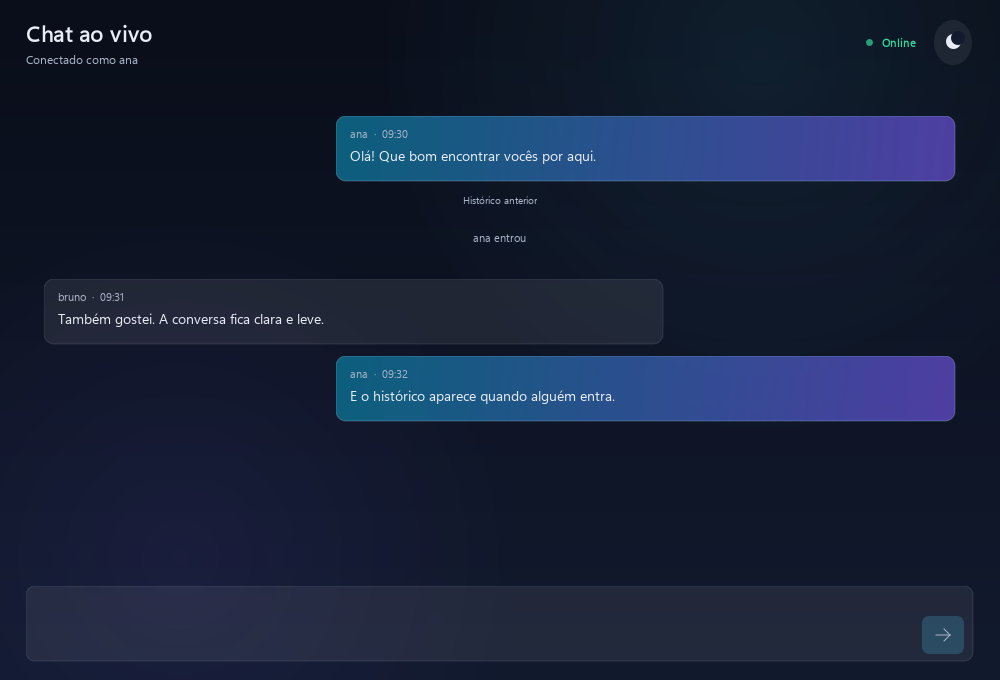
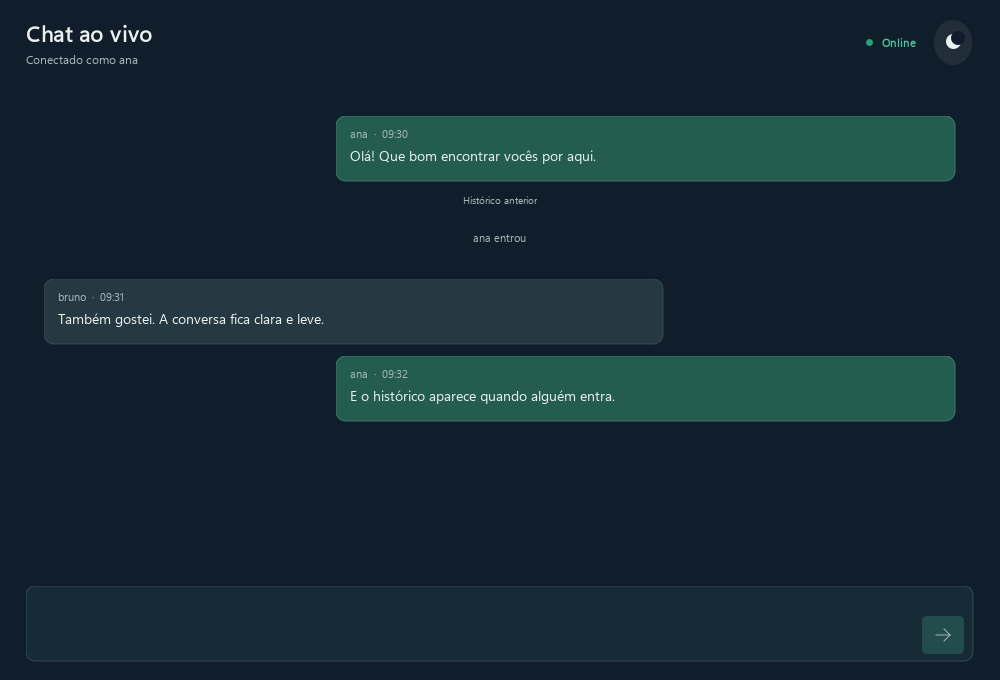
Refina identidade visual da interface

Changed region(s): [[0.31, 0.1544, 0.961, 0.2779], [0.31, 0.525, 0.961, 0.6176]]

diff --git a/src/main/java/br/unicesumar/chat/client/gui/TelaConexao.java b/src/main/java/br/unicesumar/chat/client/gui/TelaConexao.java
@@ -173,8 +173,8 @@ public final class TelaConexao extends JPanel {
         campo.setFont(Tema.fonte(14, Font.PLAIN));
         campo.setForeground(Tema.TEXTO);
         campo.setCaretColor(Tema.CIANO);
-        campo.setOpaque(false);
-        campo.setBackground(new Color(255, 255, 255, 20));
+        campo.setOpaque(true);
+        campo.setBackground(new Color(0x263B46));
         campo.setBorder(BorderFactory.createCompoundBorder(new BordaCampo(),
                 BorderFactory.createEmptyBorder(8, 10, 8, 10)));
         campo.getAccessibleContext().setAccessibleName(nomeAcessivel);
@@ -184,8 +184,8 @@ public final class TelaConexao extends JPanel {
         if (componente instanceof JLabel etiqueta && componente != erro) etiqueta.setForeground(texto);
         if (componente instanceof JTextField campo) {
             campo.setForeground(texto);
-            campo.setCaretColor(claro ? Tema.VIOLETA : Tema.CIANO);
-            campo.setBackground(claro ? new Color(255, 255, 255, 220) : new Color(255, 255, 255, 20));
+            campo.setCaretColor(claro ? Tema.CORAL : Tema.CIANO);
+            campo.setBackground(claro ? new Color(0xFFFFFF) : new Color(0x263B46));
         }
         if (componente instanceof JPanel painel) {
             for (java.awt.Component filho : painel.getComponents()) atualizarTexto(filho, texto, claro);
@@ -199,32 +199,30 @@ public final class TelaConexao extends JPanel {
         @Override public void paintBorder(java.awt.Component c, java.awt.Graphics g, int x, int y, int w, int h) {
             Graphics2D grafico = (Graphics2D) g.create();
             Tema.preparar(grafico);
-            grafico.setColor(c.getBackground());
-            grafico.fillRoundRect(x, y, w - 1, h - 1, 14, 14);
-            grafico.setColor(c.isFocusOwner() ? new Color(76, 201, 240, 180) : new Color(255, 255, 255, 35));
+            grafico.setColor(c.isFocusOwner() ? Tema.CIANO : Tema.BORDA);
             grafico.drawRoundRect(x, y, w - 1, h - 1, 14, 14);
             grafico.dispose();
         }
         @Override public Insets getBorderInsets(java.awt.Component c) { return new Insets(6, 8, 6, 8); }
     }
 
-    private static final class BordaVidro extends javax.swing.border.AbstractBorder {
+    private final class BordaVidro extends javax.swing.border.AbstractBorder {
         @Override public void paintBorder(java.awt.Component c, java.awt.Graphics g, int x, int y, int w, int h) {
             Graphics2D grafico = (Graphics2D) g.create();
             Tema.preparar(grafico);
-            grafico.setColor(new Color(255, 255, 255, 25));
+            grafico.setColor(temaClaro ? new Color(0xD8E2DC) : Tema.BORDA);
             grafico.drawRoundRect(x, y, w - 1, h - 1, 24, 24);
             grafico.dispose();
         }
         @Override public Insets getBorderInsets(java.awt.Component c) { return new Insets(1, 1, 1, 1); }
     }
 
-    private static final class PainelVidro extends JPanel {
+    private final class PainelVidro extends JPanel {
         private PainelVidro() { setOpaque(false); }
         @Override protected void paintComponent(java.awt.Graphics contexto) {
             Graphics2D grafico = (Graphics2D) contexto.create();
             Tema.preparar(grafico);
-            grafico.setColor(new Color(255, 255, 255, 14));
+            grafico.setColor(temaClaro ? Color.WHITE : Tema.SUPERFICIE);
             grafico.fillRoundRect(0, 0, getWidth() - 1, getHeight() - 1, 24, 24);
             grafico.dispose();
         }

diff --git a/src/main/java/br/unicesumar/chat/client/gui/BolhaMensagem.java b/src/main/java/br/unicesumar/chat/client/gui/BolhaMensagem.java
@@ -49,7 +49,7 @@ public final class BolhaMensagem extends JPanel {
         texto.setOpaque(false);
         texto.setMargin(new Insets(0, 0, 0, 0));
         texto.setSelectedTextColor(Tema.TEXTO);
-        texto.setSelectionColor(new Color(76, 201, 240, 90));
+        texto.setSelectionColor(new Color(79, 195, 161, 90));
         texto.getAccessibleContext().setAccessibleName("Mensagem de "
                 + (linha.remetente().isEmpty() ? linha.tipo().name().toLowerCase() : linha.remetente()));
         add(texto, BorderLayout.CENTER);
@@ -65,7 +65,7 @@ public final class BolhaMensagem extends JPanel {
     /** Aplica as cores de texto adequadas ao tema atual. */
     public void setTemaClaro(boolean ativo) {
         claro = ativo;
-        editor.setForeground(ativo && !propria ? new Color(0x101828) : Tema.TEXTO);
+        editor.setForeground(ativo ? new Color(0x172B2A) : Tema.TEXTO);
         if (cabecalho != null) cabecalho.setForeground(ativo ? new Color(0x667085) : Tema.SECUNDARIO);
         repaint();
     }
@@ -82,7 +82,7 @@ public final class BolhaMensagem extends JPanel {
         revalidate();
     }
 
-    /** Pinta vidro ou gradiente próprio com entrada curta de transparência e deslocamento. */
+    /** Pinta superfícies distintas para mensagens próprias e recebidas. */
     @Override
     protected void paintComponent(Graphics contexto) {
         Graphics2D grafico = (Graphics2D) contexto.create();
@@ -91,14 +91,13 @@ public final class BolhaMensagem extends JPanel {
         grafico.setComposite(java.awt.AlphaComposite.SrcOver.derive((float) entrada));
         RoundRectangle2D forma = new RoundRectangle2D.Double(0, 0, getWidth() - 1, getHeight() - 1, 20, 20);
         if (propria) {
-            grafico.setPaint(new java.awt.GradientPaint(0, 0, new Color(12, 101, 131, 238),
-                    getWidth(), getHeight(), new Color(83, 65, 171, 238)));
+            grafico.setColor(claro ? new Color(0xCDE8DC) : new Color(0x245C52));
         } else {
-            grafico.setColor(claro ? new Color(16, 24, 40, 13) : new Color(255, 255, 255, 20));
+            grafico.setColor(claro ? new Color(0xFFFFFF) : new Color(0x263943));
         }
         grafico.fill(forma);
-        grafico.setColor(propria ? new Color(170, 220, 255, 70)
-                : (claro ? new Color(16, 24, 40, 24) : Tema.BORDA_VIDRO));
+        grafico.setColor(propria ? (claro ? new Color(0x8BBDAA) : new Color(0x397B6D))
+                : (claro ? new Color(0xD8E2DC) : Tema.BORDA));
         grafico.draw(forma);
         grafico.dispose();
         super.paintComponent(contexto);

diff --git a/src/main/java/br/unicesumar/chat/client/gui/CampoMensagem.java b/src/main/java/br/unicesumar/chat/client/gui/CampoMensagem.java
@@ -23,6 +23,7 @@ public final class CampoMensagem extends JPanel {
     private final JLabel contador = new JLabel(" ");
     private final BotaoEnvio enviar;
     private Consumer<String> aoEnviar = ignorar -> { };
+    private boolean temaClaro;
 
     /** Cria o campo multilinha e instala os atalhos de teclado solicitados. */
     public CampoMensagem() {
@@ -92,8 +93,9 @@ public final class CampoMensagem extends JPanel {
 
     /** Aplica cores de texto adequadas ao tema claro ou escuro. */
     public void setTemaClaro(boolean claro) {
+        temaClaro = claro;
         texto.setForeground(claro ? new Color(0x101828) : Tema.TEXTO);
-        texto.setCaretColor(claro ? Tema.VIOLETA : Tema.CIANO);
+        texto.setCaretColor(claro ? Tema.CORAL : Tema.CIANO);
         contador.setForeground(claro ? new Color(0x667085) : Tema.SECUNDARIO);
         repaint();
     }
@@ -103,14 +105,14 @@ public final class CampoMensagem extends JPanel {
         texto.requestFocusInWindow();
     }
 
-    /** Pinta a superfície de vidro com borda de foco suave. */
+    /** Pinta a área de escrita com contraste e foco visível. */
     @Override
     protected void paintComponent(Graphics contexto) {
         Graphics2D grafico = (Graphics2D) contexto.create();
         Tema.preparar(grafico);
-        grafico.setColor(new Color(255, 255, 255, 18));
+        grafico.setColor(temaClaro ? Color.WHITE : new Color(0x172B36));
         grafico.fillRoundRect(0, 0, getWidth() - 1, getHeight() - 1, 18, 18);
-        grafico.setColor(texto.isFocusOwner() ? new Color(76, 201, 240, 110) : Tema.BORDA_VIDRO);
+        grafico.setColor(texto.isFocusOwner() ? Tema.CIANO : Tema.BORDA);
         grafico.drawRoundRect(0, 0, getWidth() - 1, getHeight() - 1, 18, 18);
         grafico.dispose();
         super.paintComponent(contexto);
@@ -169,8 +171,8 @@ public final class CampoMensagem extends JPanel {
             grafico.scale(escala, escala);
             int alpha = isEnabled() ? 215 : 55;
             alpha = (int) Math.min(255, alpha + hover * 30);
-            grafico.setColor(new Color(76, 201, 240, alpha));
-            grafico.fillRoundRect(0, 0, getWidth(), getHeight(), 14, 14);
+            grafico.setColor(new Color(Tema.CIANO.getRed(), Tema.CIANO.getGreen(), Tema.CIANO.getBlue(), alpha));
+            grafico.fillRoundRect(0, 0, getWidth(), getHeight(), 9, 9);
             grafico.setColor(isEnabled() ? Tema.TEXTO : Tema.SECUNDARIO);
             int centroX = getWidth() / 2;
             int centroY = getHeight() / 2;

diff --git a/src/main/java/br/unicesumar/chat/client/gui/ListaMensagens.java b/src/main/java/br/unicesumar/chat/client/gui/ListaMensagens.java
@@ -51,7 +51,7 @@ public final class ListaMensagens extends JPanel {
         superior.setOpaque(false);
         novasMensagens.setFont(Tema.fonte(11, Font.BOLD));
         novasMensagens.setForeground(Tema.TEXTO);
-        novasMensagens.setBackground(new Color(30, 42, 65, 230));
+        novasMensagens.setBackground(new Color(0x2D454F));
         novasMensagens.setBorder(BorderFactory.createEmptyBorder(7, 14, 7, 14));
         novasMensagens.setVisible(false);
         novasMensagens.setToolTipText("Rolar para as mensagens mais recentes");
@@ -135,7 +135,7 @@ public final class ListaMensagens extends JPanel {
             }
         }
         novasMensagens.setForeground(claro ? new Color(0x101828) : Tema.TEXTO);
-        novasMensagens.setBackground(claro ? new Color(255, 255, 255, 225) : new Color(30, 42, 65, 230));
+        novasMensagens.setBackground(claro ? new Color(0xE7EFEA) : new Color(0x2D454F));
         repaint();
     }
 
@@ -207,13 +207,17 @@ public final class ListaMensagens extends JPanel {
         @Override protected void paintComponent(java.awt.Graphics contexto) {
             java.awt.Graphics2D grafico = (java.awt.Graphics2D) contexto.create();
             Tema.preparar(grafico);
-            int d = Math.min(getWidth(), getHeight());
-            grafico.setPaint(new java.awt.RadialGradientPaint(getWidth() / 2f, getHeight() / 2f, d / 2f,
-                    new float[]{0f, 0.5f, 1f}, new Color[]{new Color(76, 201, 240, 90),
-                    new Color(123, 97, 255, 35), new Color(123, 97, 255, 0)}));
-            grafico.fillOval(0, 0, d, d);
-            grafico.setColor(new Color(76, 201, 240, 120));
-            grafico.fillOval(d / 3, d / 3, d / 3, d / 3);
+            int centroX = getWidth() / 2;
+            int centroY = getHeight() / 2;
+            grafico.setColor(Tema.SUPERFICIE);
+            grafico.fillRoundRect(centroX - 31, centroY - 20, 62, 40, 14, 14);
+            grafico.setColor(Tema.CIANO);
+            grafico.drawRoundRect(centroX - 31, centroY - 20, 62, 40, 14, 14);
+            grafico.drawLine(centroX - 15, centroY + 20, centroX - 21, centroY + 27);
+            grafico.drawLine(centroX - 21, centroY + 27, centroX - 4, centroY + 20);
+            for (int ponto = -10; ponto <= 10; ponto += 10) {
+                grafico.fillOval(centroX + ponto - 2, centroY - 2, 4, 4);
+            }
             grafico.dispose();
         }
     }

diff --git a/src/main/java/br/unicesumar/chat/client/gui/BotaoArredondado.java b/src/main/java/br/unicesumar/chat/client/gui/BotaoArredondado.java
@@ -25,7 +25,7 @@ public final class BotaoArredondado extends JButton {
         super(texto);
         this.animacao = animacao;
         setFont(Tema.fonte(14, java.awt.Font.BOLD));
-        setForeground(Tema.TEXTO);
+        setForeground(Tema.FUNDO_INICIO);
         setBorderPainted(false);
         setContentAreaFilled(false);
         setFocusPainted(false);
@@ -72,7 +72,7 @@ public final class BotaoArredondado extends JButton {
         });
     }
 
-    /** Pinta gradiente do acento, contorno de foco e escala de pressão. */
+    /** Pinta o botão na cor de ação, com contorno de foco e escala de pressão. */
     @Override
     protected void paintComponent(Graphics contexto) {
         Graphics2D grafico = (Graphics2D) contexto.create();
@@ -80,19 +80,18 @@ public final class BotaoArredondado extends JButton {
         double escala = 1.0 - pressionado * 0.03;
         grafico.translate(getWidth() * (1.0 - escala) / 2.0, getHeight() * (1.0 - escala) / 2.0);
         grafico.scale(escala, escala);
-        int alpha = isEnabled() ? (int) (205 + hover * 50) : 75;
-        grafico.setPaint(new java.awt.GradientPaint(0, 0, comAlpha(new Color(12, 101, 131), alpha),
-                getWidth(), getHeight(), comAlpha(new Color(83, 65, 171), alpha)));
-        grafico.fillRoundRect(1, 1, getWidth() - 2, getHeight() - 2, 18, 18);
+        int alpha = isEnabled() ? (int) (235 + hover * 20) : 85;
+        grafico.setColor(comAlpha(Tema.CIANO, alpha));
+        grafico.fillRoundRect(1, 1, getWidth() - 2, getHeight() - 2, 10, 10);
         if (carregando) {
-            grafico.setColor(new Color(255, 255, 255, 220));
+            grafico.setColor(Tema.FUNDO_INICIO);
             grafico.setStroke(new java.awt.BasicStroke(2f));
             grafico.drawArc(getWidth() - 28, (getHeight() - 14) / 2, 14, 14,
                     (int) anguloCarregamento, 250);
         }
         if (isFocusOwner()) {
-            grafico.setColor(new Color(232, 236, 245, 180));
-            grafico.drawRoundRect(2, 2, getWidth() - 5, getHeight() - 5, 16, 16);
+            grafico.setColor(Tema.CORAL);
+            grafico.drawRoundRect(2, 2, getWidth() - 5, getHeight() - 5, 9, 9);
         }
         grafico.dispose();
         super.paintComponent(contexto);

diff --git a/src/main/java/br/unicesumar/chat/client/gui/FundoFuturista.java b/src/main/java/br/unicesumar/chat/client/gui/FundoFuturista.java
@@ -3,10 +3,8 @@ package br.unicesumar.chat.client.gui;
 import javax.swing.JPanel;
 import java.awt.Graphics;
 import java.awt.Graphics2D;
-import java.awt.RadialGradientPaint;
-import java.awt.geom.Point2D;
 
-/** Pinta um fundo escuro vertical com luzes ciano e violeta discretas. */
+/** Pinta o fundo uniforme compartilhado pelas telas do chat. */
 public final class FundoFuturista extends JPanel {
     private boolean claro;
     /** Cria a superfície de fundo sem depender de janela. */
@@ -21,29 +19,17 @@ public final class FundoFuturista extends JPanel {
         repaint();
     }
 
-    /** Desenha gradiente vertical e halos radiais suaves. */
+    /** Pinta uma superfície uniforme para manter o contraste dos textos. */
     @Override
     protected void paintComponent(Graphics contexto) {
         Graphics2D grafico = (Graphics2D) contexto.create();
         Tema.preparar(grafico);
         if (claro) {
-            grafico.setPaint(new java.awt.GradientPaint(0, 0, new java.awt.Color(0xF5F7FB),
-                    0, getHeight(), new java.awt.Color(0xE8EDF7)));
-            grafico.fillRect(0, 0, getWidth(), getHeight());
-            grafico.dispose();
-            return;
+            grafico.setColor(new java.awt.Color(0xEDF1EB));
+        } else {
+            grafico.setColor(Tema.FUNDO_INICIO);
         }
-        grafico.setPaint(new java.awt.GradientPaint(0, 0, Tema.FUNDO_INICIO, 0, getHeight(), Tema.FUNDO_FIM));
         grafico.fillRect(0, 0, getWidth(), getHeight());
-        pintarHalo(grafico, getWidth() * 0.76f, getHeight() * 0.08f, Math.max(150, getWidth() * 0.38f), Tema.CIANO);
-        pintarHalo(grafico, getWidth() * 0.18f, getHeight() * 0.82f, Math.max(150, getWidth() * 0.34f), Tema.VIOLETA);
         grafico.dispose();
-    }
-
-    private void pintarHalo(Graphics2D grafico, float x, float y, float raio, java.awt.Color cor) {
-        grafico.setPaint(new RadialGradientPaint(new Point2D.Float(x, y), raio,
-                new float[]{0f, 1f}, new java.awt.Color[]{new java.awt.Color(cor.getRed(), cor.getGreen(), cor.getBlue(), 22),
-                new java.awt.Color(cor.getRed(), cor.getGreen(), cor.getBlue(), 0)}));
-        grafico.fillRect(0, 0, getWidth(), getHeight());
     }
 }

diff --git a/src/main/java/br/unicesumar/chat/client/gui/Tema.java b/src/main/java/br/unicesumar/chat/client/gui/Tema.java
@@ -10,16 +10,15 @@ import java.util.Set;
 
 /** Reúne paleta, fonte e configuração de desenho comuns às telas Swing. */
 public final class Tema {
-    public static final Color FUNDO_INICIO = new Color(0x0A0E1A);
-    public static final Color FUNDO_FIM = new Color(0x121A2E);
-    public static final Color VIDRO = new Color(255, 255, 255, 18);
-    public static final Color BORDA_VIDRO = new Color(255, 255, 255, 27);
-    public static final Color TEXTO = new Color(0xE8ECF5);
-    public static final Color SECUNDARIO = new Color(0xAAB4C9);
-    public static final Color CIANO = new Color(0x4CC9F0);
-    public static final Color VIOLETA = new Color(0x7B61FF);
-    public static final Color SUCESSO = new Color(0x34D399);
-    public static final Color ERRO = new Color(0xFF6B81);
+    public static final Color FUNDO_INICIO = new Color(0x101E2B);
+    public static final Color SUPERFICIE = new Color(0x1D3441);
+    public static final Color BORDA = new Color(0x344955);
+    public static final Color TEXTO = new Color(0xEAF1EE);
+    public static final Color SECUNDARIO = new Color(0xA5B7B5);
+    public static final Color CIANO = new Color(0x4FC3A1);
+    public static final Color CORAL = new Color(0xE98B68);
+    public static final Color SUCESSO = new Color(0x4FC3A1);
+    public static final Color ERRO = new Color(0xE47773);
     private static final List<String> FONTES = List.of(
             "SF Pro Display", "SF Pro Text", "Segoe UI Variable", "Segoe UI", "Helvetica Neue", "Inter"
     );

diff --git a/src/test/java/br/unicesumar/chat/client/gui/TemaVisualTest.java b/src/test/java/br/unicesumar/chat/client/gui/TemaVisualTest.java
@@ -1,0 +1,21 @@
+package br.unicesumar.chat.client.gui;
+
+import org.junit.jupiter.api.Test;
+
+import static org.junit.jupiter.api.Assertions.assertEquals;
+
+class TemaVisualTest {
+    @Test
+    void usaPaletaDoChatDoCampus() {
+        assertEquals(0x101E2B, rgb(Tema.FUNDO_INICIO));
+        assertEquals(0x1D3441, rgb(Tema.SUPERFICIE));
+        assertEquals(0xEAF1EE, rgb(Tema.TEXTO));
+        assertEquals(0xA5B7B5, rgb(Tema.SECUNDARIO));
+        assertEquals(0x4FC3A1, rgb(Tema.CIANO));
+        assertEquals(0xE98B68, rgb(Tema.CORAL));
+    }
+
+    private int rgb(java.awt.Color cor) {
+        return cor.getRGB() & 0xFFFFFF;
+    }
+}

diff --git a/docs/RELATORIO_DESENVOLVIMENTO.md b/docs/RELATORIO_DESENVOLVIMENTO.md
@@ -187,3 +187,12 @@ Formato de cada entrada (copie e preencha; mantenha curto):
 - **Suíte:** `mvn -q test`: 53/53 passaram (41 unitários/arquitetura + 12 integrações; 0 falhas/erros/ignorados).
 - **Observação operacional:** ao parar o servidor, os handlers fecham os sockets concorrentemente. Um broadcast de saída pode tentar escrever em um socket que já está sendo fechado e registrar um aviso; isso não impediu o encerramento, não perdeu a mensagem validada e ambos os clientes receberam a desconexão.
 - **Próximo passo:** revisão visual manual no desktop do aluno, conforme pendência do estado do projeto.
+
+### 2026-10-20 · Revisão visual da interface Swing
+
+- **Alterado:** paleta da GUI passou a usar azul-petróleo `#101E2B`, ardósia `#1D3441`, texto claro `#EAF1EE`, verde-sinal `#4FC3A1` e coral `#E98B68`. Fundo e superfícies ficaram sólidos; mensagens próprias e recebidas usam superfícies diferentes. Foco, campos e botão de envio mantêm contraste. As capturas `docs/img/tela-conexao.png` e `docs/img/tela-chat.png` foram refeitas e revisadas com renderização headless.
+- **Teste primeiro:** `TemaVisualTest` falhou com a paleta anterior e passou após a mudança. A primeira captura revelou que o desenho da borda cobria os valores dos campos; foi corrigido para deixar o próprio `JTextField` pintar o fundo e o texto. Outra falha de compilação revelou uma borda interna `static` acessando estado da tela; ela passou a ser uma classe interna de instância.
+- **Arquivos:** `Tema`, `FundoFuturista`, `TelaConexao`, `BolhaMensagem`, `CampoMensagem`, `BotaoArredondado`, `ListaMensagens`, `TemaVisualTest`, capturas em `docs/img/`, `docs/ESTADO.md` e este relatório.
+- **Testes:** `mvn -q test`: 54/54 passaram (42 unitários/arquitetura + 12 integrações; 0 falhas/erros/ignorados). Capturas Swing em `BufferedImage`, sem abrir janelas.
+- **Concorrência:** nenhuma mudança nos fluxos de rede ou compartilhamento; a atualização visual é executada na EDT como antes.
+- **Próximo passo:** conferir foco e escala em janela real no desktop do aluno.

diff --git a/docs/RELATORIO_FINAL.md b/docs/RELATORIO_FINAL.md
@@ -65,7 +65,7 @@ sequenceDiagram
 
 Uma race de nick duplicado foi evitada tornando a inclusão atômica (`ClientRegistryTest`). Alterações no registry durante broadcast são seguras por snapshot e foram exercitadas com `ExecutorService` e `CountDownLatch` (`ChatServiceTest`). O lock de ordenação impede que uma mensagem fique entre o registro do novo cliente e o envio do histórico.
 
-O fechamento da GUI durante conexão/leitura também fecha o socket e os streams; o connect tem timeout de 5 s e verifica cancelamento (`ConexaoChatIntegracaoTest`). O cliente gráfico usa Swing/Java2D sem dependências adicionais, tema escuro com alternância clara e capturas em `docs/img/`. Como o protocolo existente envia uma linha por mensagem, quebras feitas com Shift+Enter são convertidas em espaços ao enviar.
+O fechamento da GUI durante conexão/leitura também fecha o socket e os streams; o connect tem timeout de 5 s e verifica cancelamento (`ConexaoChatIntegracaoTest`). O cliente gráfico usa Swing/Java2D sem dependências adicionais, paleta azul-petróleo, ardósia, verde-sinal e coral, com alternância clara e capturas em `docs/img/`. Como o protocolo existente envia uma linha por mensagem, quebras feitas com Shift+Enter são convertidas em espaços ao enviar.
 
 O H2 usa `./data/chat`; o schema é inicializado com `CREATE ... IF NOT EXISTS`. O histórico busca os últimos IDs em ordem decrescente e os inverte para a ordem cronológica. Os testes JDBC usam bancos em memória com nome aleatório.
 

diff --git a/docs/ESTADO.md b/docs/ESTADO.md
@@ -2,10 +2,10 @@
 
 > Mapa compacto para o agente **não precisar varrer o repositório**. **Sobrescreva** a cada tarefa (não acumule histórico aqui; o histórico vai em `RELATORIO_DESENVOLVIMENTO.md`). Mantenha em até ~100 linhas.
 
-**Atualizado em:** 2026-10-14 · **Fase atual:** GUI validada com dois clientes TCP
+**Atualizado em:** 2026-10-20 · **Fase atual:** identidade visual da GUI revisada
 **Marco "núcleo obrigatório completo":** ✅ atingido
-**Testes:** 41 unitários/arquitetura + 12 integrações = 53; 0 falhas/erros/ignorados. Inclui dois clientes GUI reais conversando por TCP e encerramento do servidor; teste da conversa e suíte `mvn -q test` passaram.
-**Próximo passo:** conferir foco, escala e comportamento de janela no desktop do aluno; a validação automatizada Swing foi headless para não abrir janelas nesta sessão.
+**Testes:** 42 unitários/arquitetura + 12 integrações = 54; 0 falhas/erros/ignorados. `mvn -q test` passou; capturas Swing atualizadas e revisadas em modo headless.
+**Próximo passo:** conferir foco, escala e comportamento de janela no desktop do aluno; nenhuma janela nativa foi aberta nesta sessão.
 
 Legenda: ⬜ pendente · 🟡 em andamento · ✅ pronto e testado
 
